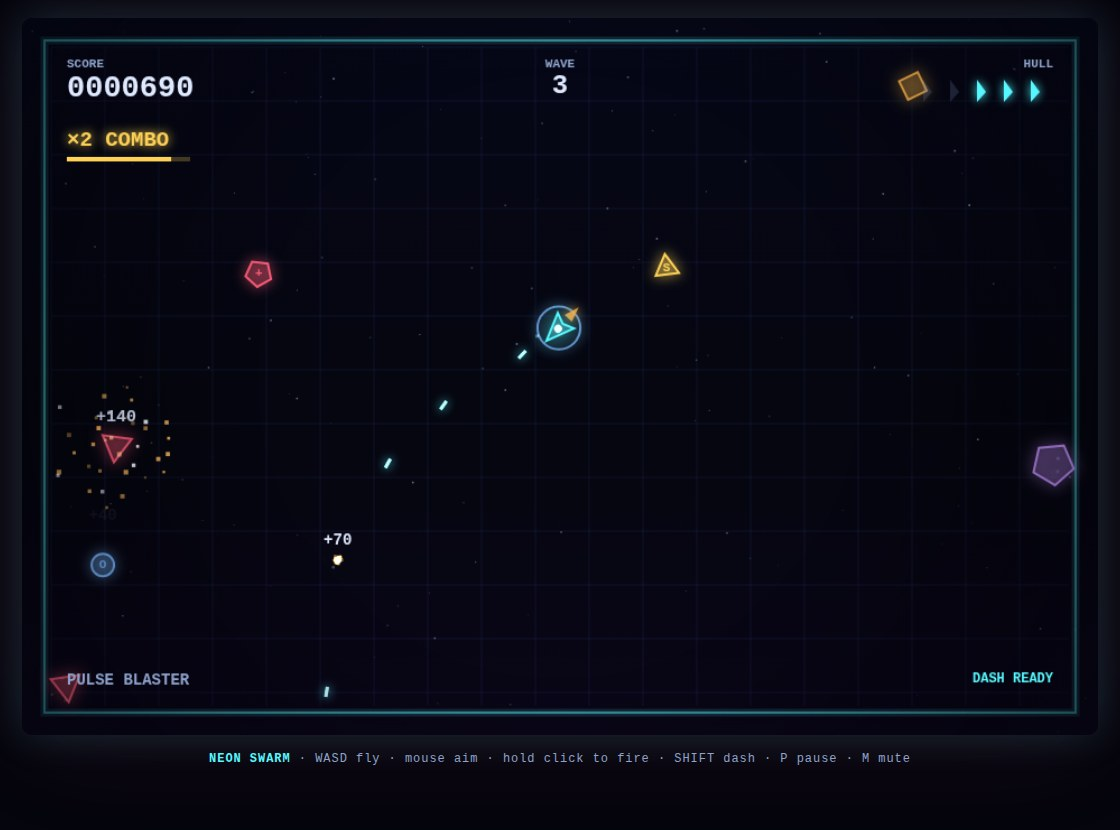
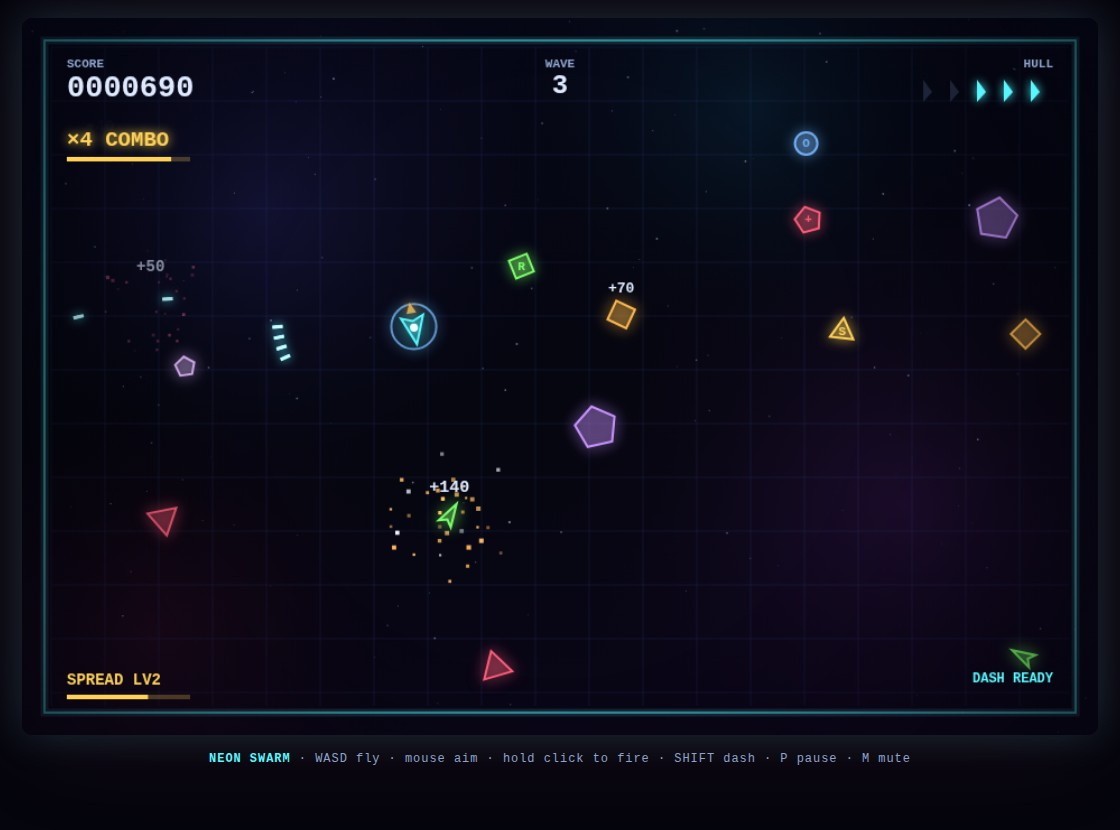
Polish pass for the final heat: nebula backdrop, denser action scene, framed boss duel
- render.js: pre-render the static arena (gradient, nebula wash, grid, wall
  frame) once into an offscreen backdrop and blit it per frame; the nebula
  gives the dark between grid lines depth in the game's own palette.
- shots.js: the action scene now searches a longer seeded run for its
  busiest non-boss moment, counts foe variety in the score, and dresses the
  frame to a full rampage (spread LV2, x4 combo, reinforcements pressed in,
  the sim itself firing the spread fan). The boss scene always frames the
  duel mid-arena with the Dreadnought worn to half hull, escorts out, a
  bullet stream on its way and its ring burst expanding.
- screenshots regenerated (action scene now staged from seed 12).

diff --git a/game/src/shots.js b/game/src/shots.js
@@ -4,6 +4,7 @@
 // frozen for the screenshot. shots.json names the four scenes and their files.
 
 import { createWorld, startRun, stepWorld, addScoreText, GameState } from './world.js';
+import { ARENA, PLAYER } from './config.js';
 
 // A simple autopilot: keep range from the nearest foe, circle it, keep firing.
 function botInput(world) {
@@ -64,9 +65,16 @@ function busiestMoment(seed, seconds) {
   while (step < total && probe.state === GameState.PLAYING) {
     stepWorld(probe, botInput(probe), 1 / 60);
     step += 1;
-    if (step % 20 === 0) {
+    // Boss-wave moments are the boss scene's job, never this one's: a ring
+    // burst would win the density score and steal the Dreadnought's shot.
+    if (step % 20 === 0 && !probe.enemies.some((e) => e.kind === 'boss')) {
+      const kinds = new Set(probe.enemies.map((e) => e.kind)).size;
       const density =
-        probe.enemies.length * 3 + probe.bullets.length + probe.enemyBullets.length * 2 + Math.min(24, probe.particles.length) / 2;
+        probe.enemies.length * 3 +
+        probe.bullets.length +
+        probe.enemyBullets.length * 2 +
+        Math.min(24, probe.particles.length) / 2 +
+        kinds * 4;
       if (density > bestScore) {
         bestScore = density;
         bestStep = step;
@@ -99,25 +107,140 @@ function stageExplosion(world, x, y, color) {
   }
 }
 
-function stagePlay(seed) {
-  const world = busiestMoment(seed, 18) ?? busiestMoment(seed + 1000, 18);
-  if (!world || world.state !== GameState.PLAYING) return stagePlay(seed + 31);
-  // Dress the frame: a foe blowing up near the action, a floating score, a live
-  // combo, the shield ring up, and a power-up waiting on the field.
+// The foe stats the staged scenes place by hand, mirroring world.js's own
+// table, so a hand-placed foe is exactly the foe the simulation would spawn.
+const STAGED_STATS = {
+  chaser: { hp: 3, speed: 118, radius: 15, score: 50 },
+  weaver: { hp: 2, speed: 148, radius: 13, score: 70 },
+  splitter: { hp: 5, speed: 82, radius: 19, score: 90 },
+  mini: { hp: 1, speed: 168, radius: 9, score: 25 },
+  stinger: { hp: 1, speed: 205, radius: 10, score: 40 },
+};
+
+function clampToArena(v, lo, hi) {
+  return v < lo ? lo : v > hi ? hi : v;
+}
+
+function stagedFoe(world, kind, x, y, vx, vy) {
+  const st = STAGED_STATS[kind];
+  return {
+    kind,
+    x,
+    y,
+    vx,
+    vy,
+    radius: st.radius,
+    hp: st.hp,
+    maxHp: st.hp,
+    speed: st.speed,
+    score: st.score,
+    t: world.rng.range(0, Math.PI * 2),
+    flash: 0,
+    ambient: false,
+    attackTimer: 1.5,
+  };
+}
+
+// Press extra foes in around the player until the frame holds targetCount of
+// them: mixed kinds on a ring, far enough to read as a swarm closing in,
+// never stacked on another foe or on the ship.
+function stageReinforcements(world, targetCount) {
   const p = world.player;
-  const near = world.enemies
+  const kinds = ['weaver', 'splitter', 'stinger', 'chaser', 'mini', 'weaver', 'stinger', 'splitter'];
+  let placed = 0;
+  let guard = 0;
+  while (world.enemies.length < targetCount && guard < 48) {
+    guard += 1;
+    const kind = kinds[placed % kinds.length];
+    const st = STAGED_STATS[kind];
+    const ang = (placed / targetCount) * Math.PI * 2 + world.rng.range(-0.3, 0.3);
+    const ring = world.rng.range(200, 330);
+    placed += 1;
+    const x = clampToArena(p.x + Math.cos(ang) * ring, ARENA.wall + st.radius + 6, ARENA.width - ARENA.wall - st.radius - 6);
+    const y = clampToArena(p.y + Math.sin(ang) * ring, ARENA.wall + st.radius + 6, ARENA.height - ARENA.wall - st.radius - 6);
+    if (Math.hypot(x - p.x, y - p.y) < 130) continue;
+    if (world.enemies.some((e) => Math.hypot(e.x - x, e.y - y) < 74)) continue;
+    const toward = Math.atan2(p.y - y, p.x - x);
+    world.enemies.push(stagedFoe(world, kind, x, y, Math.cos(toward) * st.speed * 0.6, Math.sin(toward) * st.speed * 0.6));
+  }
+}
+
+// Top the boss's escorts up to three, placed around the hull the way its own
+// summon move releases them.
+function stageEscorts(world, boss) {
+  const kinds = ['mini', 'stinger', 'mini'];
+  const spots = [
+    { dx: 96, dy: -52 },
+    { dx: -88, dy: 62 },
+    { dx: 24, dy: 104 },
+  ];
+  let have = world.enemies.filter((e) => e.kind !== 'boss').length;
+  for (let i = 0; have < 3 && i < spots.length; i++, have++) {
+    const st = STAGED_STATS[kinds[i % kinds.length]];
+    const x = clampToArena(boss.x + spots[i].dx, ARENA.wall + st.radius + 4, ARENA.width - ARENA.wall - st.radius - 4);
+    const y = clampToArena(boss.y + spots[i].dy, ARENA.wall + st.radius + 4, ARENA.height - ARENA.wall - st.radius - 4);
+    world.enemies.push(stagedFoe(world, kinds[i % kinds.length], x, y, 0, 0));
+  }
+}
+
+// A stream of the player's own shots already on their way to the target, laid
+// along the line the ship is aiming down.
+function stageBulletStream(world, target) {
+  const p = world.player;
+  const dx = target.x - p.x;
+  const dy = target.y - p.y;
+  const d = Math.hypot(dx, dy);
+  if (d < 1) return;
+  const ux = dx / d;
+  const uy = dy / d;
+  for (const f of [0.3, 0.48, 0.66, 0.84]) {
+    world.bullets.push({
+      x: p.x + dx * f,
+      y: p.y + dy * f,
+      vx: ux * PLAYER.bulletSpeed,
+      vy: uy * PLAYER.bulletSpeed,
+      life: PLAYER.bulletLife,
+      radius: 3.4,
+    });
+  }
+}
+
+function stagePlay(seed) {
+  const world = busiestMoment(seed, 40) ?? busiestMoment(seed + 1000, 40);
+  if (!world || world.state !== GameState.PLAYING) return stagePlay(seed + 31);
+  // The frame should read as a rampage in full swing: a levelled spread cannon
+  // in hand and the swarm pressed in from every side.
+  world.weapon = { kind: 'spread', level: 2, timeLeft: 12 };
+  stageReinforcements(world, 9);
+  // Let the simulation itself fire the spread fan and carry the new foes a few
+  // steps in, so every tracer and drift in the frozen frame is the game's own.
+  for (let i = 0; i < 9; i++) stepWorld(world, botInput(world), 1 / 60);
+  if (world.state !== GameState.PLAYING) return stagePlay(seed + 31);
+  // Dress the frame: foes blowing up near the action, floating scores, a live
+  // ×4 combo, the shield ring up, and a power-up waiting on the field.
+  const p = world.player;
+  const byRange = world.enemies
     .filter((e) => Math.hypot(e.x - p.x, e.y - p.y) < 340)
-    .sort((a, b) => Math.hypot(a.x - p.x, a.y - p.y) - Math.hypot(b.x - p.x, b.y - p.y))[0];
-  const foe = near ?? world.enemies[0];
+    .sort((a, b) => Math.hypot(a.x - p.x, a.y - p.y) - Math.hypot(b.x - p.x, b.y - p.y));
+  const foe = byRange[0] ?? world.enemies[0];
   if (foe) {
     stageExplosion(world, foe.x, foe.y, '#ffb84d');
     addScoreText(world, foe.x, foe.y - 22, '+140', '#dfe9ff', 15);
   }
-  world.combo = Math.max(world.combo, 12);
+  const second = byRange[1];
+  if (second) addScoreText(world, second.x, second.y - 20, '+70', '#dfe9ff', 13);
+  world.combo = Math.max(world.combo, 22);
   world.comboTimer = 2.2;
-  world.mult = Math.max(world.mult, 2);
+  world.mult = Math.max(world.mult, 4);
   world.shield = true;
-  world.pickups.push({ x: p.x + 96, y: p.y - 56, kind: 'spread', radius: 10, life: 9, t: 1 });
+  world.pickups.push({
+    x: clampToArena(p.x + 96, ARENA.wall + 16, ARENA.width - ARENA.wall - 16),
+    y: clampToArena(p.y - 56, ARENA.wall + 16, ARENA.height - ARENA.wall - 16),
+    kind: 'rapid',
+    radius: 10,
+    life: 9,
+    t: 1,
+  });
   world.banner = null;
   world.shake = 0;
   world.flash = 0;
@@ -138,21 +261,26 @@ function stageBoss(seed) {
   simBot(world, 6.5);
   const boss = world.enemies.find((e) => e.kind === 'boss');
   if (!boss || world.state !== GameState.PLAYING) return stageBoss(seed + 77);
-  // Freeze mid-burst: trigger one more ring so the frame is full of danger,
-  // then let the boss's hit-flash settle so its red hull reads in the shot.
+  // Frame the duel mid-arena, every time: the boss whole in the upper right,
+  // the ship below-left facing it, and the fight already joined — the hull
+  // worn to just over half, escorts out, and a stream of the ship's shots
+  // already on their way.
+  boss.x = 618;
+  boss.y = 268;
+  boss.hp = Math.round(boss.maxHp * 0.55);
+  world.player.x = 356;
+  world.player.y = 392;
+  world.player.vx = 0;
+  world.player.vy = 0;
+  world.player.aimAngle = Math.atan2(boss.y - world.player.y, boss.x - world.player.x);
+  stageEscorts(world, boss);
+  stageBulletStream(world, boss);
+  // Freeze mid-burst: trigger one more ring around the framed boss and give
+  // it a few steps to expand into the air, then let the boss's hit-flash
+  // settle so its red hull reads in the shot.
   boss.attackTimer = 0;
-  stepWorld(world, botInput(world), 1 / 60);
-  stepWorld(world, botInput(world), 1 / 60);
+  for (let i = 0; i < 7; i++) stepWorld(world, botInput(world), 1 / 60);
   boss.flash = 0.1;
-  // If the duel drifted into a corner, restage it mid-arena for the shot: the
-  // boss framed whole, the ship facing it, its bullet ring still in the air.
-  if (boss.x < 210 || boss.x > 750 || boss.y < 180 || boss.y > 470) {
-    boss.x = 618;
-    boss.y = 268;
-    world.player.x = 356;
-    world.player.y = 392;
-    world.player.aimAngle = Math.atan2(boss.y - world.player.y, boss.x - world.player.x);
-  }
   world.banner = null;
   world.shake = 0;
   world.flash = 0;

diff --git a/game/src/render.js b/game/src/render.js
@@ -1,7 +1,9 @@
 // Neon Swarm — the canvas renderer. Draws the world the simulation hands it:
-// a deep-space arena with a parallax starfield and grid, neon-glow ships and
-// foes, particles, the HUD, wave banners, and the title / pause / game-over
-// screens. Pure presentation: it reads world state and never changes it.
+// a deep-space arena with a nebula wash, a twinkling starfield and a grid,
+// neon-glow ships and foes, particles, the HUD, wave banners, and the title /
+// pause / game-over screens. The static arena is pre-rendered once into an
+// offscreen backdrop, so a frame costs one blit plus the moving pieces. Pure
+// presentation: it reads world state and never changes it.
 
 import { ARENA, PLAYER, COLORS } from './config.js';
 import { GameState, colorOf } from './world.js';
@@ -14,6 +16,7 @@ export function createRenderer(canvas) {
   const ctx = canvas.getContext('2d');
   const stars = makeStars();
   const vignette = makeVignette(ctx);
+  const backdrop = makeBackdrop();
 
   function draw(world, opts = {}) {
     ctx.save();
@@ -21,7 +24,7 @@ export function createRenderer(canvas) {
       const s = world.shake;
       ctx.translate((Math.random() - 0.5) * s, (Math.random() - 0.5) * s);
     }
-    drawArena(ctx, stars, world.time);
+    drawArena(ctx, backdrop, stars, world.time);
     drawPickups(ctx, world);
     for (const e of world.enemies) drawEnemy(ctx, e, world.time);
     if (world.state !== GameState.TITLE) drawPlayer(ctx, world);
@@ -74,40 +77,73 @@ function makeVignette(ctx) {
   return c;
 }
 
-function drawArena(ctx, stars, time) {
-  const bg = ctx.createLinearGradient(0, 0, 0, H);
+// The static arena — base gradient, nebula wash, grid and wall frame — is
+// painted once into an offscreen canvas (padded by PAD so the screen shake
+// never exposes an unpainted edge) and blitted each frame; only the twinkling
+// stars are drawn live. Same picture, a fraction of the per-frame cost.
+const BACKDROP_PAD = 20;
+
+function makeBackdrop() {
+  const c = document.createElement('canvas');
+  c.width = W + BACKDROP_PAD * 2;
+  c.height = H + BACKDROP_PAD * 2;
+  const g = c.getContext('2d');
+  g.translate(BACKDROP_PAD, BACKDROP_PAD);
+
+  const bg = g.createLinearGradient(0, 0, 0, H);
   bg.addColorStop(0, '#070818');
   bg.addColorStop(0.55, COLORS.bg);
   bg.addColorStop(1, '#0a0618');
-  ctx.fillStyle = bg;
-  ctx.fillRect(-20, -20, W + 40, H + 40);
+  g.fillStyle = bg;
+  g.fillRect(-BACKDROP_PAD, -BACKDROP_PAD, W + BACKDROP_PAD * 2, H + BACKDROP_PAD * 2);
+
+  // Nebula: broad, soft colour fields in the game's own palette, so the dark
+  // between the grid lines has depth instead of flat black.
+  const nebulae = [
+    { x: W * 0.22, y: H * 0.26, r: 330, color: 'rgba(46, 42, 118, 0.34)' },
+    { x: W * 0.82, y: H * 0.68, r: 360, color: 'rgba(96, 34, 128, 0.26)' },
+    { x: W * 0.68, y: H * 0.12, r: 240, color: 'rgba(16, 92, 116, 0.20)' },
+    { x: W * 0.12, y: H * 0.86, r: 260, color: 'rgba(128, 28, 62, 0.18)' },
+  ];
+  for (const n of nebulae) {
+    const grad = g.createRadialGradient(n.x, n.y, 0, n.x, n.y, n.r);
+    grad.addColorStop(0, n.color);
+    grad.addColorStop(1, 'rgba(0, 0, 0, 0)');
+    g.fillStyle = grad;
+    g.fillRect(n.x - n.r, n.y - n.r, n.r * 2, n.r * 2);
+  }
+
+  g.strokeStyle = COLORS.grid;
+  g.lineWidth = 1;
+  g.beginPath();
+  for (let x = ARENA.wall; x <= W - ARENA.wall; x += 48) {
+    g.moveTo(x, ARENA.wall);
+    g.lineTo(x, H - ARENA.wall);
+  }
+  for (let y = ARENA.wall; y <= H - ARENA.wall; y += 48) {
+    g.moveTo(ARENA.wall, y);
+    g.lineTo(W - ARENA.wall, y);
+  }
+  g.stroke();
+
+  // The arena wall: a bright double frame the action reads against.
+  g.strokeStyle = 'rgba(87, 247, 255, 0.5)';
+  g.lineWidth = 2;
+  g.strokeRect(ARENA.wall - 6, ARENA.wall - 6, W - (ARENA.wall - 6) * 2, H - (ARENA.wall - 6) * 2);
+  g.strokeStyle = 'rgba(87, 247, 255, 0.14)';
+  g.lineWidth = 7;
+  g.strokeRect(ARENA.wall - 6, ARENA.wall - 6, W - (ARENA.wall - 6) * 2, H - (ARENA.wall - 6) * 2);
+  return c;
+}
+
+function drawArena(ctx, backdrop, stars, time) {
+  ctx.drawImage(backdrop, -BACKDROP_PAD, -BACKDROP_PAD);
 
   for (const s of stars) {
     const a = 0.35 + 0.3 * Math.sin(time * 1.4 + s.tw) * s.depth;
     ctx.fillStyle = `rgba(190, 210, 255, ${a.toFixed(3)})`;
     ctx.fillRect(s.x, s.y, s.r, s.r);
   }
-
-  ctx.strokeStyle = COLORS.grid;
-  ctx.lineWidth = 1;
-  ctx.beginPath();
-  for (let x = ARENA.wall; x <= W - ARENA.wall; x += 48) {
-    ctx.moveTo(x, ARENA.wall);
-    ctx.lineTo(x, H - ARENA.wall);
-  }
-  for (let y = ARENA.wall; y <= H - ARENA.wall; y += 48) {
-    ctx.moveTo(ARENA.wall, y);
-    ctx.lineTo(W - ARENA.wall, y);
-  }
-  ctx.stroke();
-
-  // The arena wall: a bright double frame the action reads against.
-  ctx.strokeStyle = 'rgba(87, 247, 255, 0.5)';
-  ctx.lineWidth = 2;
-  ctx.strokeRect(ARENA.wall - 6, ARENA.wall - 6, W - (ARENA.wall - 6) * 2, H - (ARENA.wall - 6) * 2);
-  ctx.strokeStyle = 'rgba(87, 247, 255, 0.14)';
-  ctx.lineWidth = 7;
-  ctx.strokeRect(ARENA.wall - 6, ARENA.wall - 6, W - (ARENA.wall - 6) * 2, H - (ARENA.wall - 6) * 2);
 }
 
 function polygon(ctx, x, y, radius, sides, rotation) {

diff --git a/README.md b/README.md
@@ -32,8 +32,8 @@ mkdir -p out && MAKEFUN_OUTPUT_DIR=out node main.ts
 ## Layout
 
 - `main.ts` — the entrypoint the grader runs (Node 22): hands in `game/` and `screenshots/` with the vendored dossier library.
-- `game/` — the playable game as static files: `index.html` and ES modules under `src/` (`world.js` is the whole simulation, `render.js` the canvas art, `audio.js` the Web Audio synth, `input.js`, `shots.js`, `main.js`).
-- `screenshots/` — the four entry screenshots, staged deterministically by `game/src/shots.js` (`?shot=start|play|boss|end&seed=N`, see `shots.json`).
+- `game/` — the playable game as static files: `index.html` and ES modules under `src/` (`world.js` is the whole simulation, `render.js` the canvas art — the nebula, grid and arena wall are pre-rendered once into a backdrop so a frame is one blit plus the moving pieces — `audio.js` the Web Audio synth, `input.js`, `shots.js`, `main.js`).
+- `screenshots/` — the four entry screenshots, staged deterministically by `game/src/shots.js` (`?shot=start|play|boss|end&seed=N`, see `shots.json`): the action scene replays a seeded run to its busiest swarm moment and the boss scene frames the Dreadnought duel mid-fight.
 - `tests/world.test.mjs` — headless checks of the simulation: `node tests/world.test.mjs`.
 - `vendor/makefun-game.ts` — make.fun's dossier library, vendored unchanged.
 
